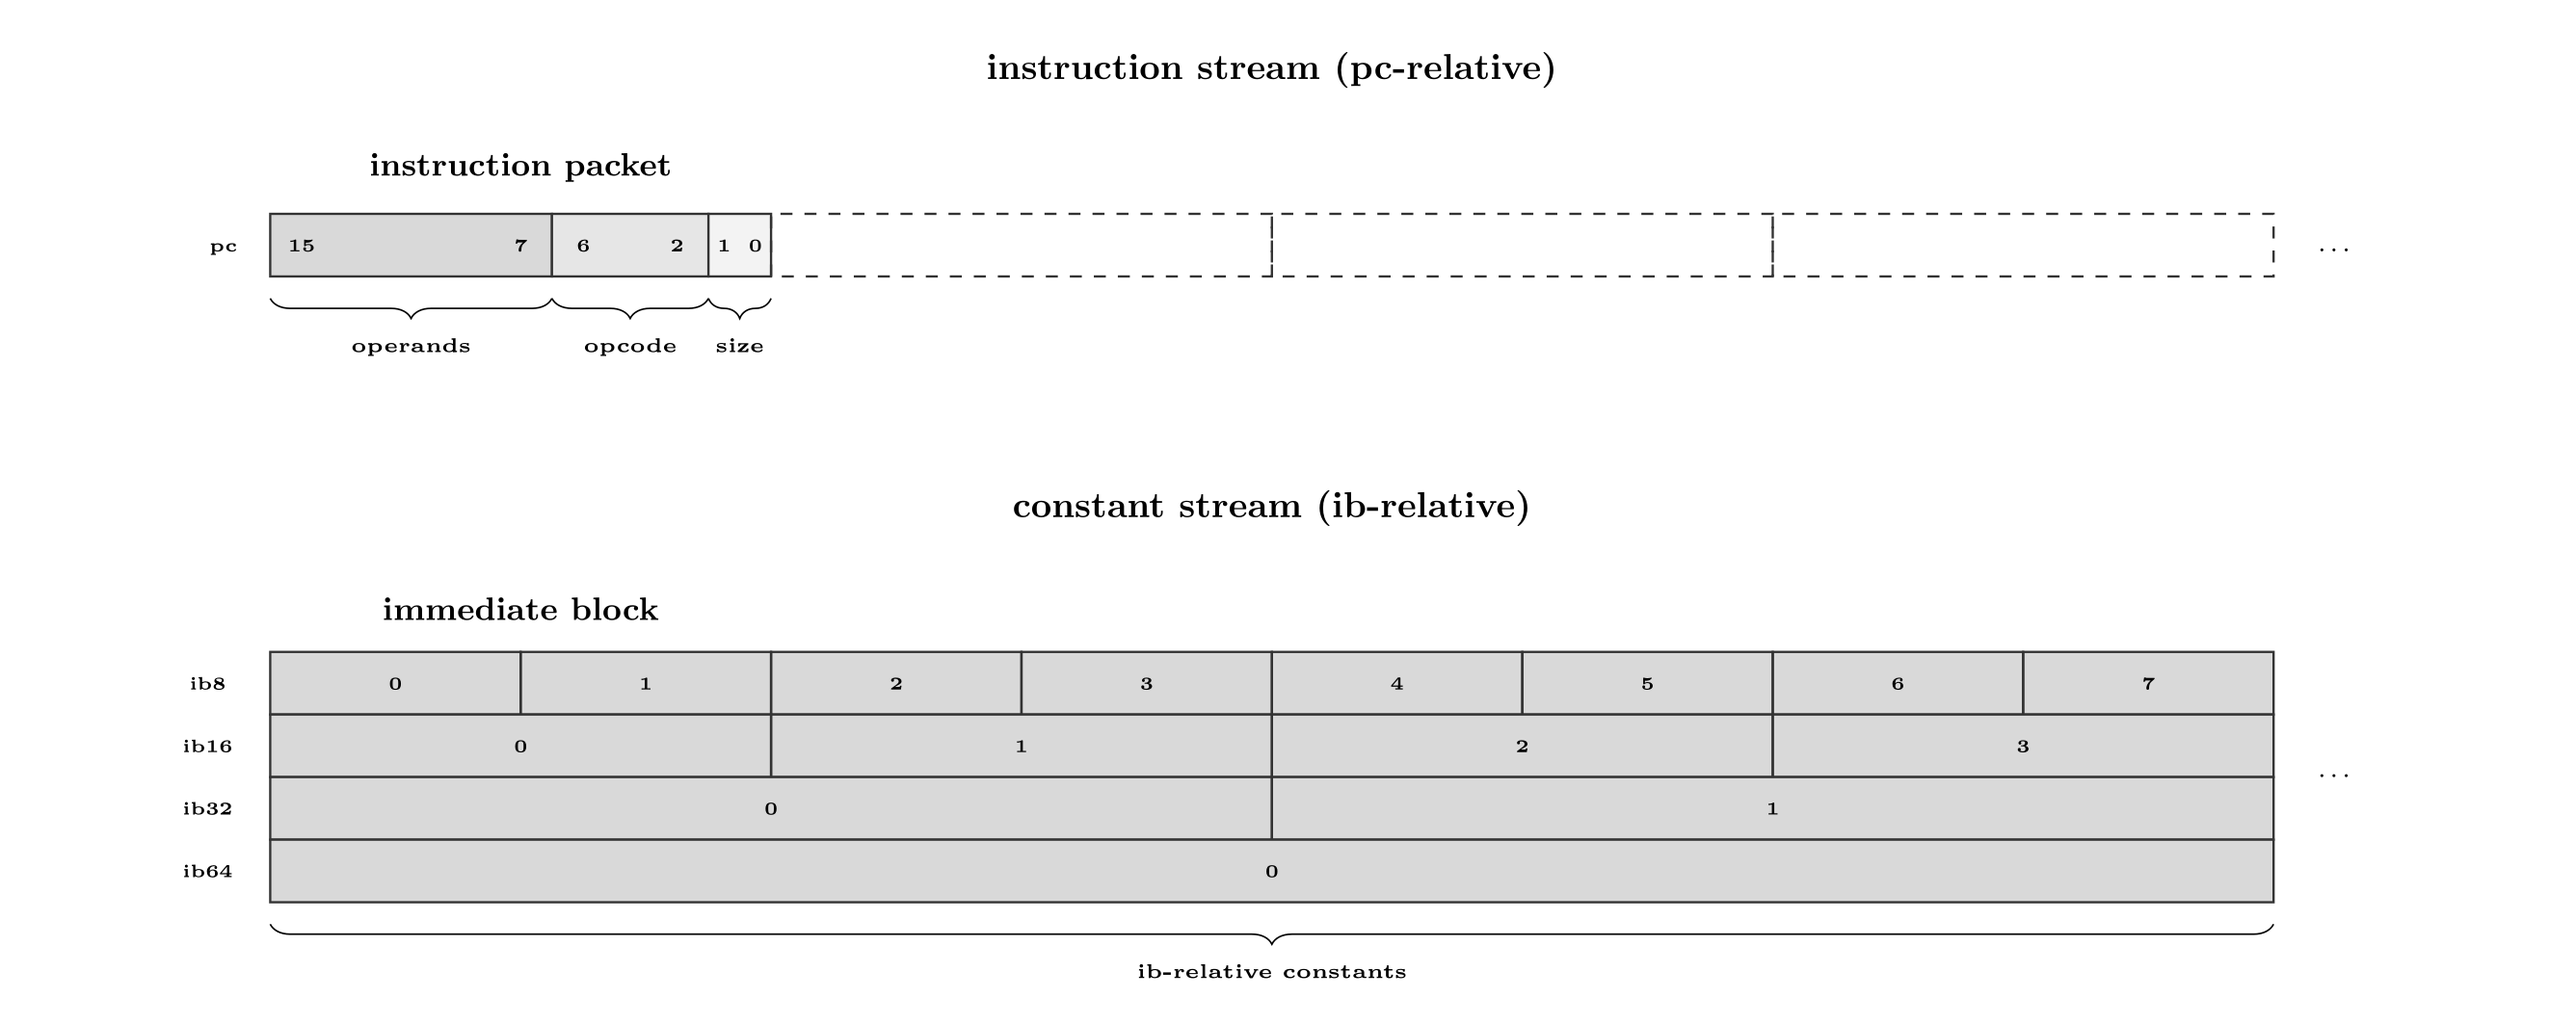
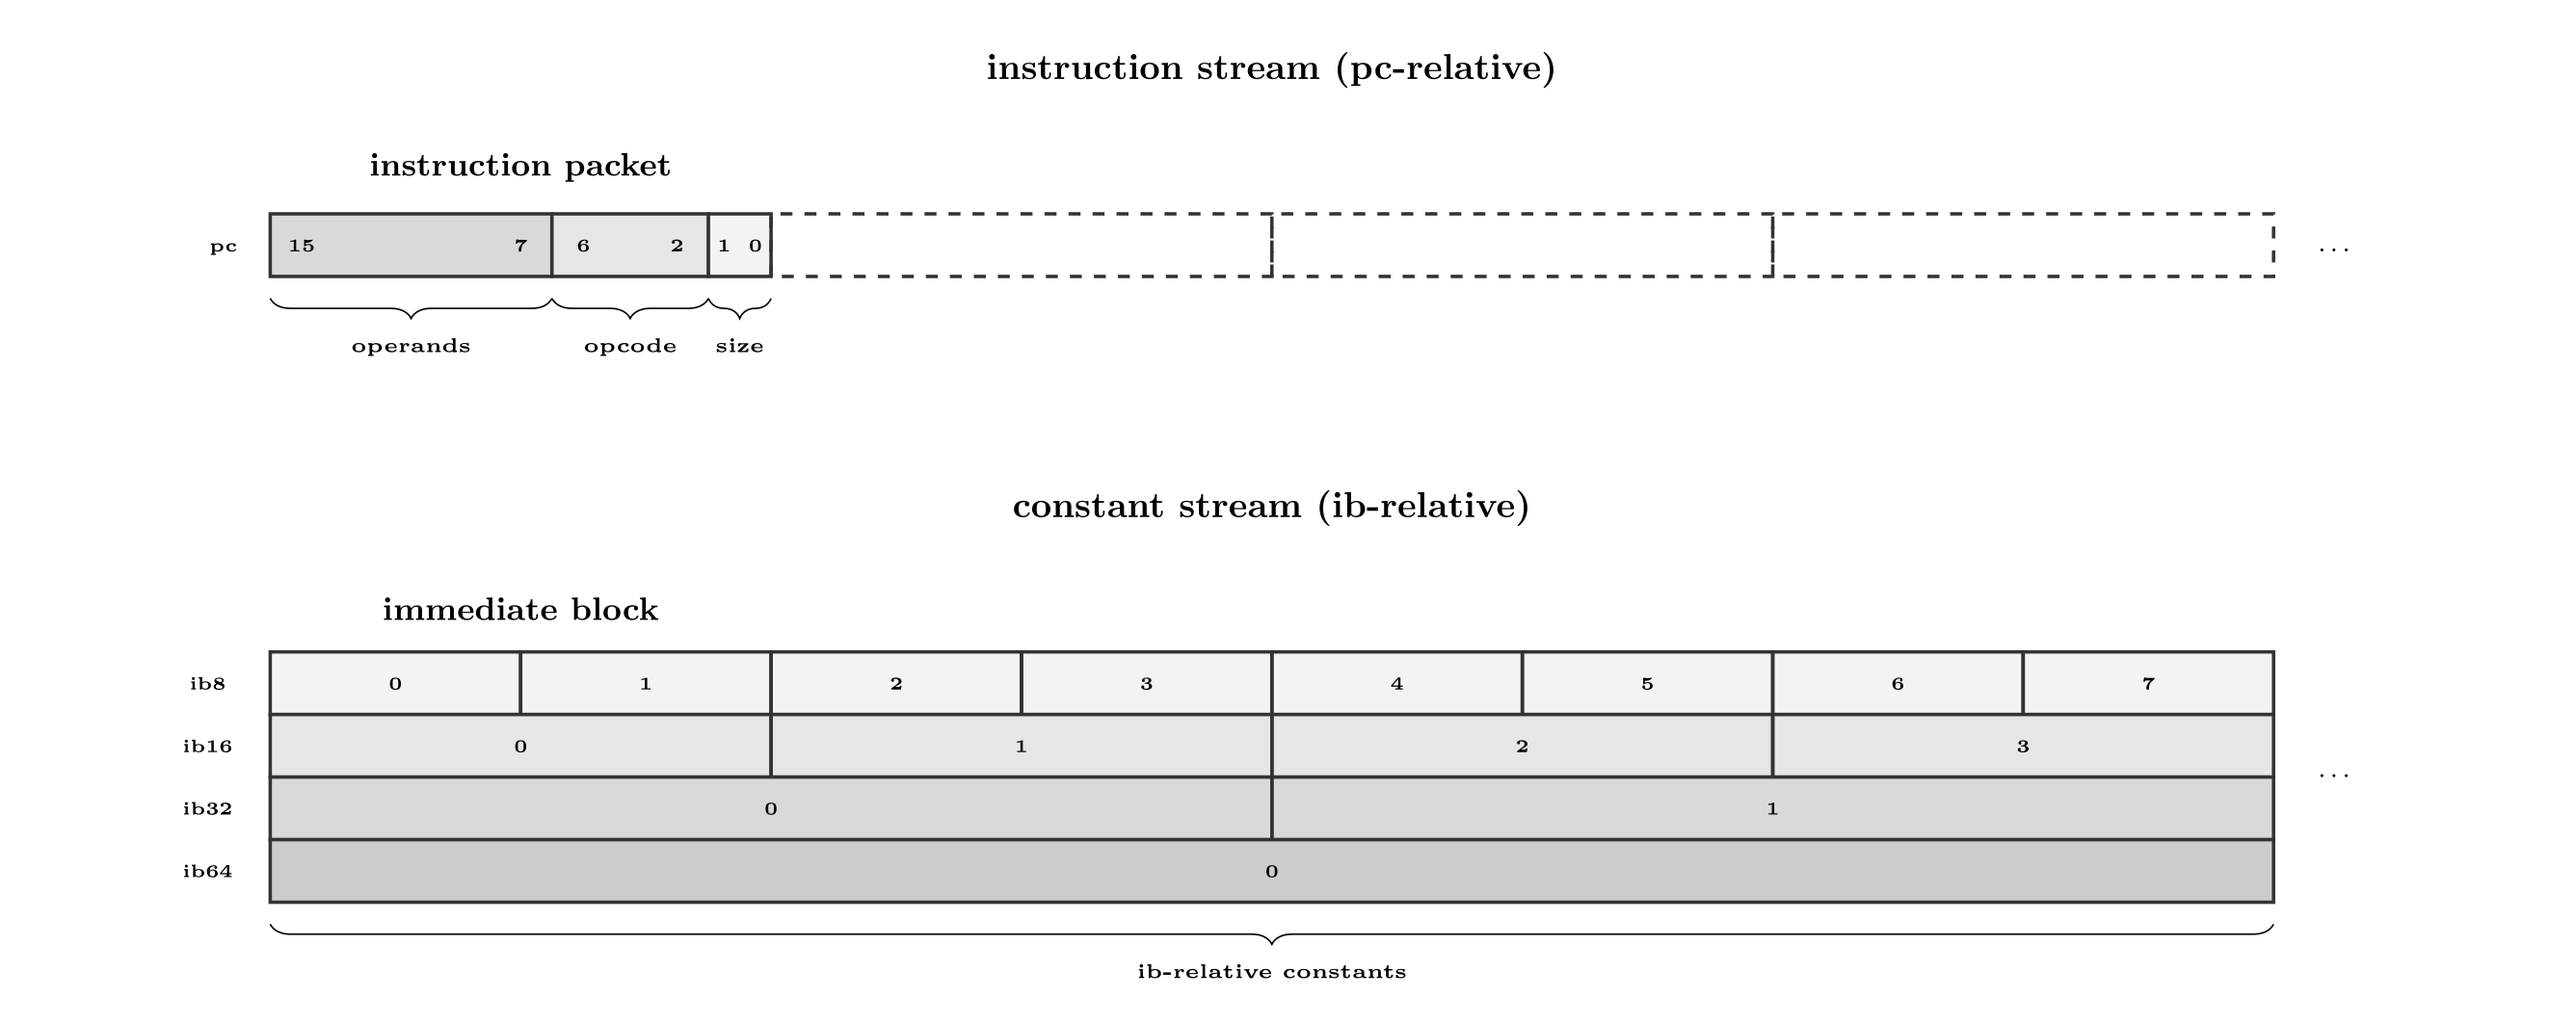
add shaded gradient to immediate block constants figure

diff --git a/doc/concept.tex b/doc/concept.tex
@@ -22,23 +22,23 @@
 \node [font=\tiny,below,scale=0.9,anchor=base] at (33.0,0.4)  {$\textbf{\ldots}$};
 
 \fill [black!15]                   (0.0,0.0)   rectangle (4.5,1.0);
-\draw [line width=0.2mm, black!80] (0.0,0.0)   rectangle (4.5,1.0);
+\draw [line width=0.3mm, black!80] (0.0,0.0)   rectangle (4.5,1.0);
 \node [font=\tiny,below,scale=0.9,anchor=base] at (0.5,0.4)  {$\textbf{15}$};
 \node [font=\tiny,below,scale=0.9,anchor=base] at (4.0,0.4)  {$\textbf{7}$};
 
 \fill [black!10]                   (4.5,0.0)   rectangle (7.0,1.0);
-\draw [line width=0.2mm, black!80] (4.5,0.0)   rectangle (7.0,1.0);
+\draw [line width=0.3mm, black!80] (4.5,0.0)   rectangle (7.0,1.0);
 \node [font=\tiny,below,scale=0.9,anchor=base] at (5.0,0.4)  {$\textbf{6}$};
 \node [font=\tiny,below,scale=0.9,anchor=base] at (6.5,0.4)  {$\textbf{2}$};
 
 \fill [black!5]                    (7.0,0.0)   rectangle (8.0,1.0);
-\draw [line width=0.2mm, black!80] (7.0,0,0)   rectangle (8.0,1.0);
+\draw [line width=0.3mm, black!80] (7.0,0,0)   rectangle (8.0,1.0);
 \node [font=\tiny,below,scale=0.9,anchor=base] at (7.25,0.4)  {$\textbf{1}$};
 \node [font=\tiny,below,scale=0.9,anchor=base] at (7.75,0.4)  {$\textbf{0}$};
 
-\draw [line width=0.2mm, black!80,dashed] (8,0)      rectangle (16,1);
-\draw [line width=0.2mm, black!80,dashed] (16,0)     rectangle (24,1);
-\draw [line width=0.2mm, black!80,dashed] (24,0)     rectangle (32,1);
+\draw [line width=0.3mm, black!80,dashed] (8,0)      rectangle (16,1);
+\draw [line width=0.3mm, black!80,dashed] (16,0)     rectangle (24,1);
+\draw [line width=0.3mm, black!80,dashed] (24,0)     rectangle (32,1);
 
 \draw [decorate,decoration={brace,amplitude=5pt,mirror,raise=4ex}]
     (0,0.75) -- (4.5,0.75) node[font=\tiny,midway,below,yshift=-2.7em]{\textbf{operands}};
@@ -56,17 +56,17 @@
 
 \node [font=\tiny,below,scale=0.9,anchor=base] at (-1.0,-6.6)  {$\textbf{ib8}$};
 \foreach \x in {0,1,2,3,4,5,6,7}
-  \fill [black!15]                   (\x*4,-6)     rectangle (\x*4+4,-7);
+  \fill [black!5]                   (\x*4,-6)     rectangle (\x*4+4,-7);
 \foreach \x in {0,1,2,3,4,5,6,7}
-  \draw [line width=0.2mm, black!80] (\x*4,-6)     rectangle (\x*4+4,-7);
+  \draw [line width=0.3mm, black!80] (\x*4,-6)     rectangle (\x*4+4,-7);
 \foreach \x in {0,1,2,3,4,5,6,7}
   \node [font=\tiny,below,scale=0.9,anchor=base] at (\x*4 + 2,-6.6)  {$\textbf{\x}$};
 
 \node [font=\tiny,below,scale=0.9,anchor=base] at (-1.0,-7.6)  {$\textbf{ib16}$};
 \foreach \x in {0,1,2,3}
-  \fill [black!15]                   (\x*8,-7)     rectangle (\x*8+8,-8);
+  \fill [black!10]                   (\x*8,-7)     rectangle (\x*8+8,-8);
 \foreach \x in {0,1,2,3}
-  \draw [line width=0.2mm, black!80] (\x*8,-7)     rectangle (\x*8+8,-8);
+  \draw [line width=0.3mm, black!80] (\x*8,-7)     rectangle (\x*8+8,-8);
 \foreach \x in {0,1,2,3}
   \node [font=\tiny,below,scale=0.9,anchor=base] at (\x*8 + 4,-7.6)  {$\textbf{\x}$};
 
@@ -74,15 +74,15 @@
 \foreach \x in {0,1}
   \fill [black!15]                   (\x*16,-8)     rectangle (\x*16+16,-9);
 \foreach \x in {0,1}
-  \draw [line width=0.2mm, black!80] (\x*16,-8)     rectangle (\x*16+16,-9);
+  \draw [line width=0.3mm, black!80] (\x*16,-8)     rectangle (\x*16+16,-9);
 \foreach \x in {0,1}
   \node [font=\tiny,below,scale=0.9,anchor=base] at (\x*16 + 8,-8.6)  {$\textbf{\x}$};
 
 \node [font=\tiny,below,scale=0.9,anchor=base] at (-1.0,-9.6)  {$\textbf{ib64}$};
 \foreach \x in {0}
-  \fill [black!15]                   (\x*32,-9)     rectangle (\x*32+32,-10);
+  \fill [black!20]                   (\x*32,-9)     rectangle (\x*32+32,-10);
 \foreach \x in {0}
-  \draw [line width=0.2mm, black!80] (\x*32,-9)     rectangle (\x*32+32,-10);
+  \draw [line width=0.3mm, black!80] (\x*32,-9)     rectangle (\x*32+32,-10);
 \foreach \x in {0}
   \node [font=\tiny,below,scale=0.9,anchor=base] at (\x*32 + 16,-9.6)  {$\textbf{\x}$};
 

diff --git a/doc/glyph.tex b/doc/glyph.tex
@@ -712,7 +712,7 @@ is addressed with the \emph{immediate base register (ib)}.
 
 \node [font=\tiny,below,scale=0.9,anchor=base] at (-1.0,-6.75)  {$\textbf{ib8}$};
 \foreach \x in {0,1,2,3,4,5,6,7}
-  \fill [black!15]                   (\x*4,-6)     rectangle (\x*4+4,-7);
+  \fill [black!5]                   (\x*4,-6)     rectangle (\x*4+4,-7);
 \foreach \x in {0,1,2,3,4,5,6,7}
   \draw [line width=0.2mm, black!80] (\x*4,-6)     rectangle (\x*4+4,-7);
 \foreach \x in {0,1,2,3,4,5,6,7}
@@ -720,7 +720,7 @@ is addressed with the \emph{immediate base register (ib)}.
 
 \node [font=\tiny,below,scale=0.9,anchor=base] at (-1.0,-7.75)  {$\textbf{ib16}$};
 \foreach \x in {0,1,2,3}
-  \fill [black!15]                   (\x*8,-7)     rectangle (\x*8+8,-8);
+  \fill [black!10]                   (\x*8,-7)     rectangle (\x*8+8,-8);
 \foreach \x in {0,1,2,3}
   \draw [line width=0.2mm, black!80] (\x*8,-7)     rectangle (\x*8+8,-8);
 \foreach \x in {0,1,2,3}
@@ -736,7 +736,7 @@ is addressed with the \emph{immediate base register (ib)}.
 
 \node [font=\tiny,below,scale=0.9,anchor=base] at (-1.0,-9.75)  {$\textbf{ib64}$};
 \foreach \x in {0}
-  \fill [black!15]                   (\x*32,-9)     rectangle (\x*32+32,-10);
+  \fill [black!20]                   (\x*32,-9)     rectangle (\x*32+32,-10);
 \foreach \x in {0}
   \draw [line width=0.2mm, black!80] (\x*32,-9)     rectangle (\x*32+32,-10);
 \foreach \x in {0}
